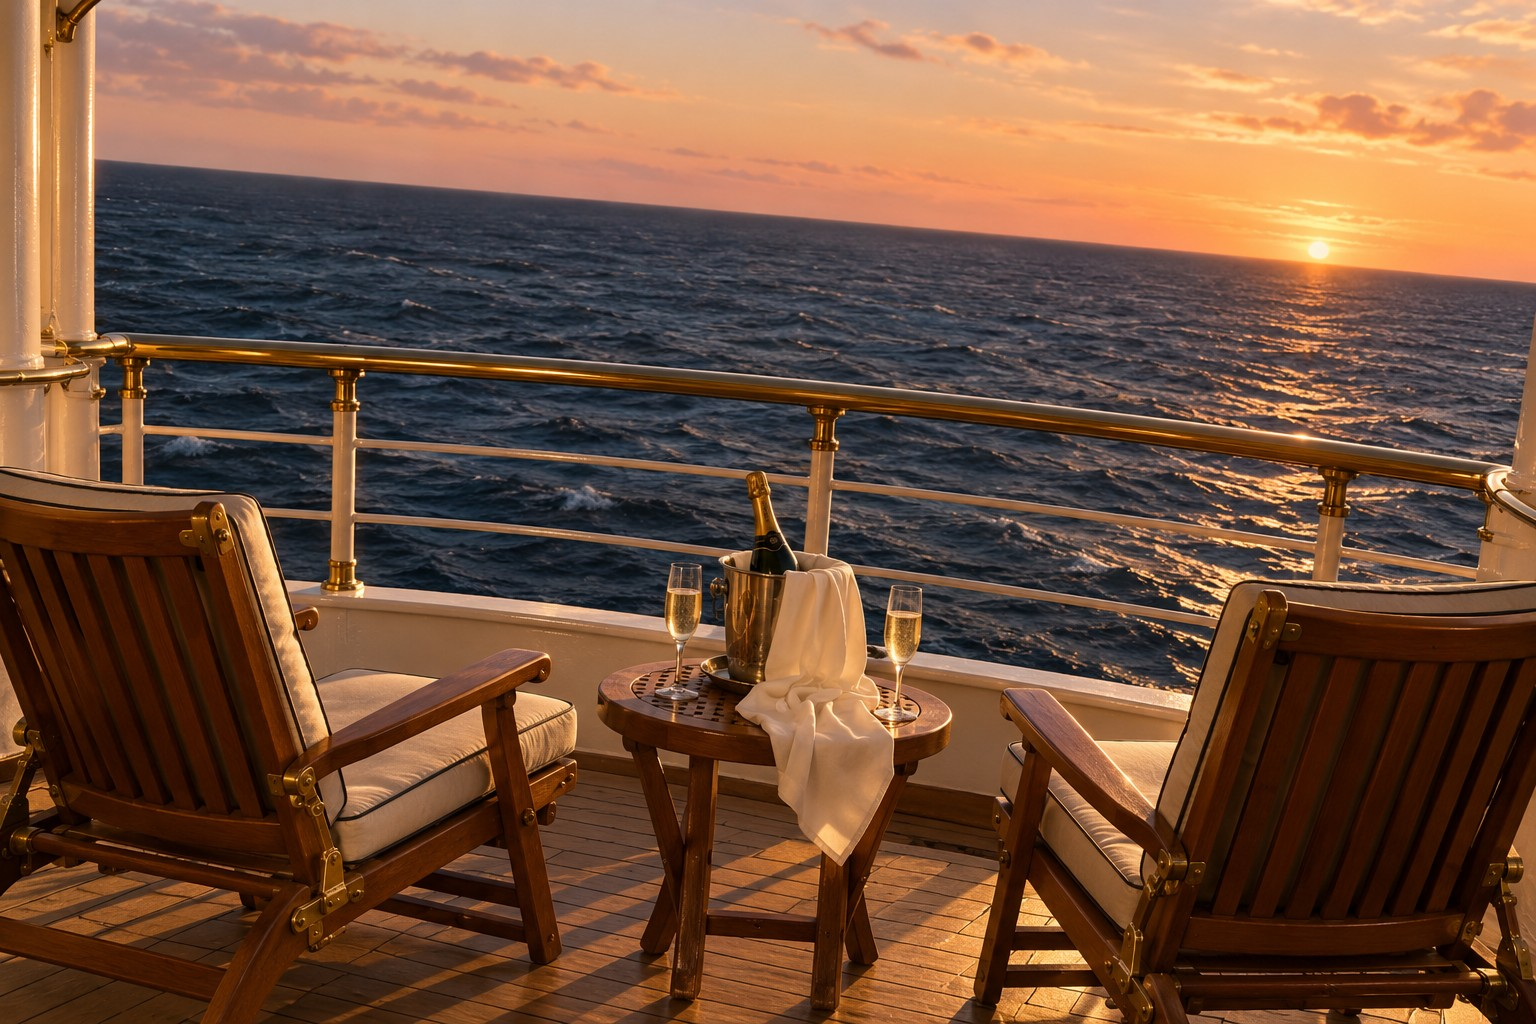
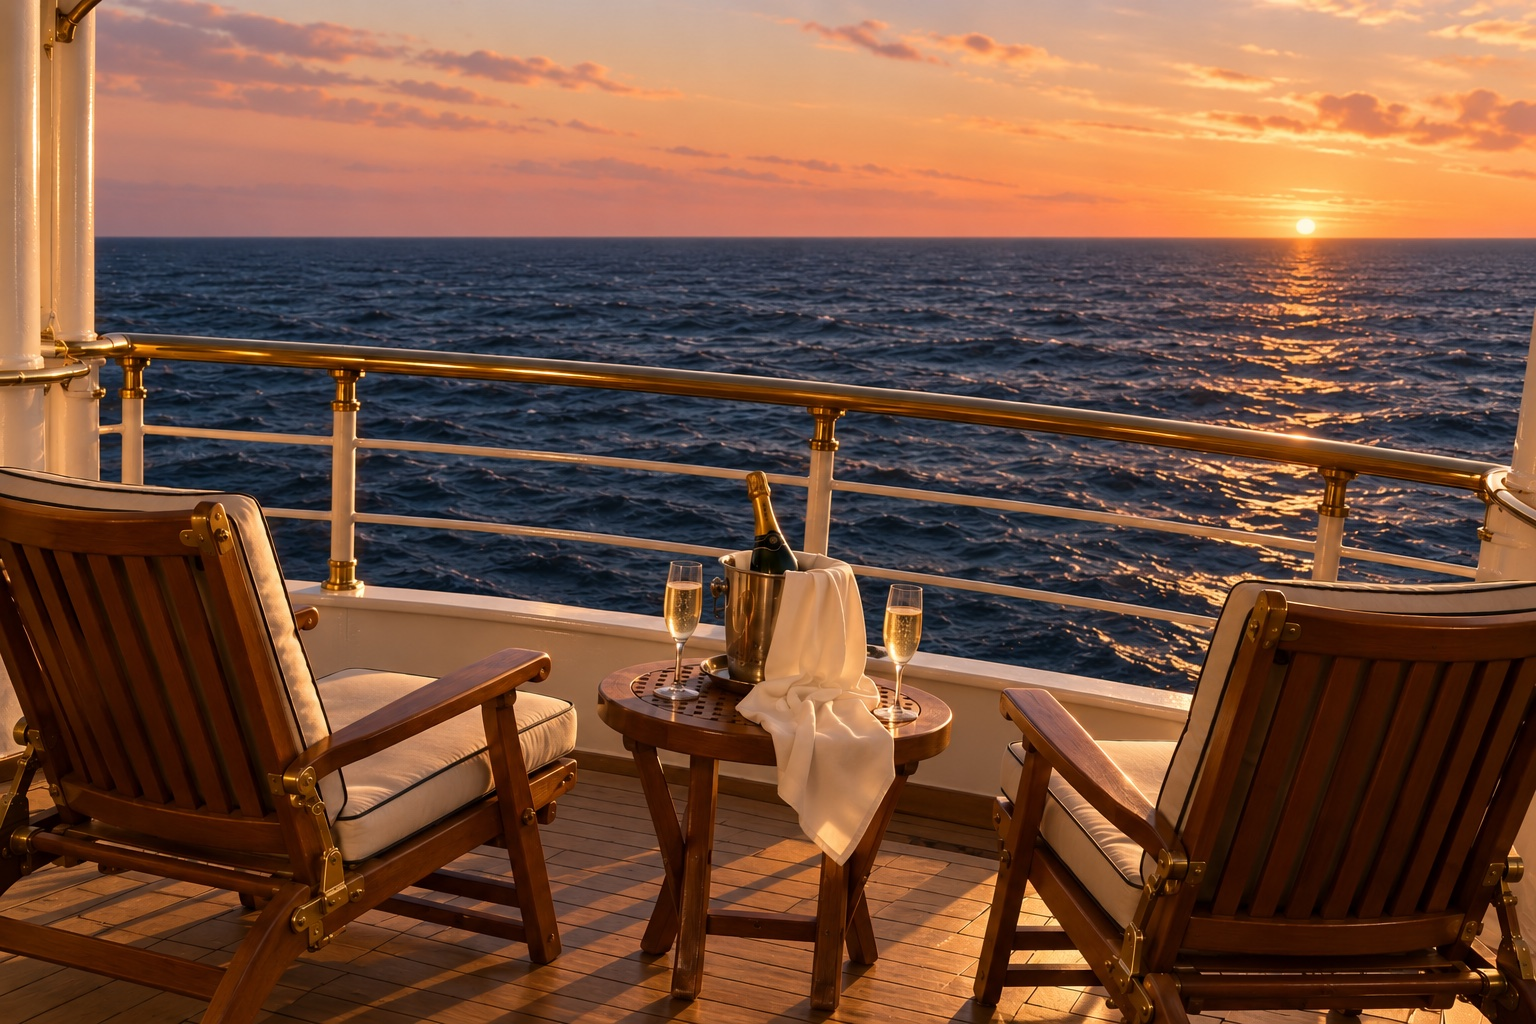
Show the balcony listing against a level sea horizon

diff --git a/index.html b/index.html
@@ -3,7 +3,7 @@
 <body>
 <header><a class="brand" href="#">FUCKING TITANIC<span>EST. TOO LATE</span></a><nav aria-label="Main navigation"><a href="#cabins">Cabin reviews</a><a href="#pleasures">Onboard pleasures</a><a href="#announcements">Ship announcements</a></nav><span class="header-note">A passenger's guide</span></header>
 <main>
-<section class="hero"><div class="hero-copy"><p class="eyebrow">THE VOYAGE OF A LIFETIME. TECHNICALLY.</p><h1>Yes, we're all<br>going down.<br><em>But some cabins<br>have balconies.</em></h1><p class="intro">A discerning passenger's guide to making the most of the remaining voyage.</p><a class="button" href="#cabins">Find a better cabin</a><span class="fine">No guarantees regarding buoyancy.</span></div><figure class="hero-image"><img src="balcony.jpg" alt="Champagne and two deck chairs on a private ocean liner balcony overlooking the evening sea"><figcaption><span>THE BALCONY SUITE</span><span>Sea view increasingly close.</span></figcaption></figure></section>
+<section class="hero"><div class="hero-copy"><p class="eyebrow">THE VOYAGE OF A LIFETIME. TECHNICALLY.</p><h1>Yes, we're all<br>going down.<br><em>But some cabins<br>have balconies.</em></h1><p class="intro">A discerning passenger's guide to making the most of the remaining voyage.</p><a class="button" href="#cabins">Find a better cabin</a><span class="fine">No guarantees regarding buoyancy.</span></div><figure class="hero-image"><img src="balcony.jpg?v=2" alt="Champagne and two deck chairs on a listing ocean liner balcony, with the railing angled against the level evening sea"><figcaption><span>THE BALCONY SUITE</span><span>Sea view increasingly close.</span></figcaption></figure></section>
 <div class="status-strip"><span class="eyebrow">FROM THE BRIDGE</span><p>Reports of a slight list have been reclassified as a new perspective.</p><span class="status-end">BEVERAGE SERVICE CONTINUES</span></div>
 <section id="cabins" class="cabins section"><div class="section-heading"><div><p class="eyebrow">ACCOMMODATION, UNTIL FURTHER NOTICE</p><h2>Choose your deck wisely.</h2></div><p>Water does not enter every<br>compartment simultaneously.</p></div>
 <div class="cabin-grid">
